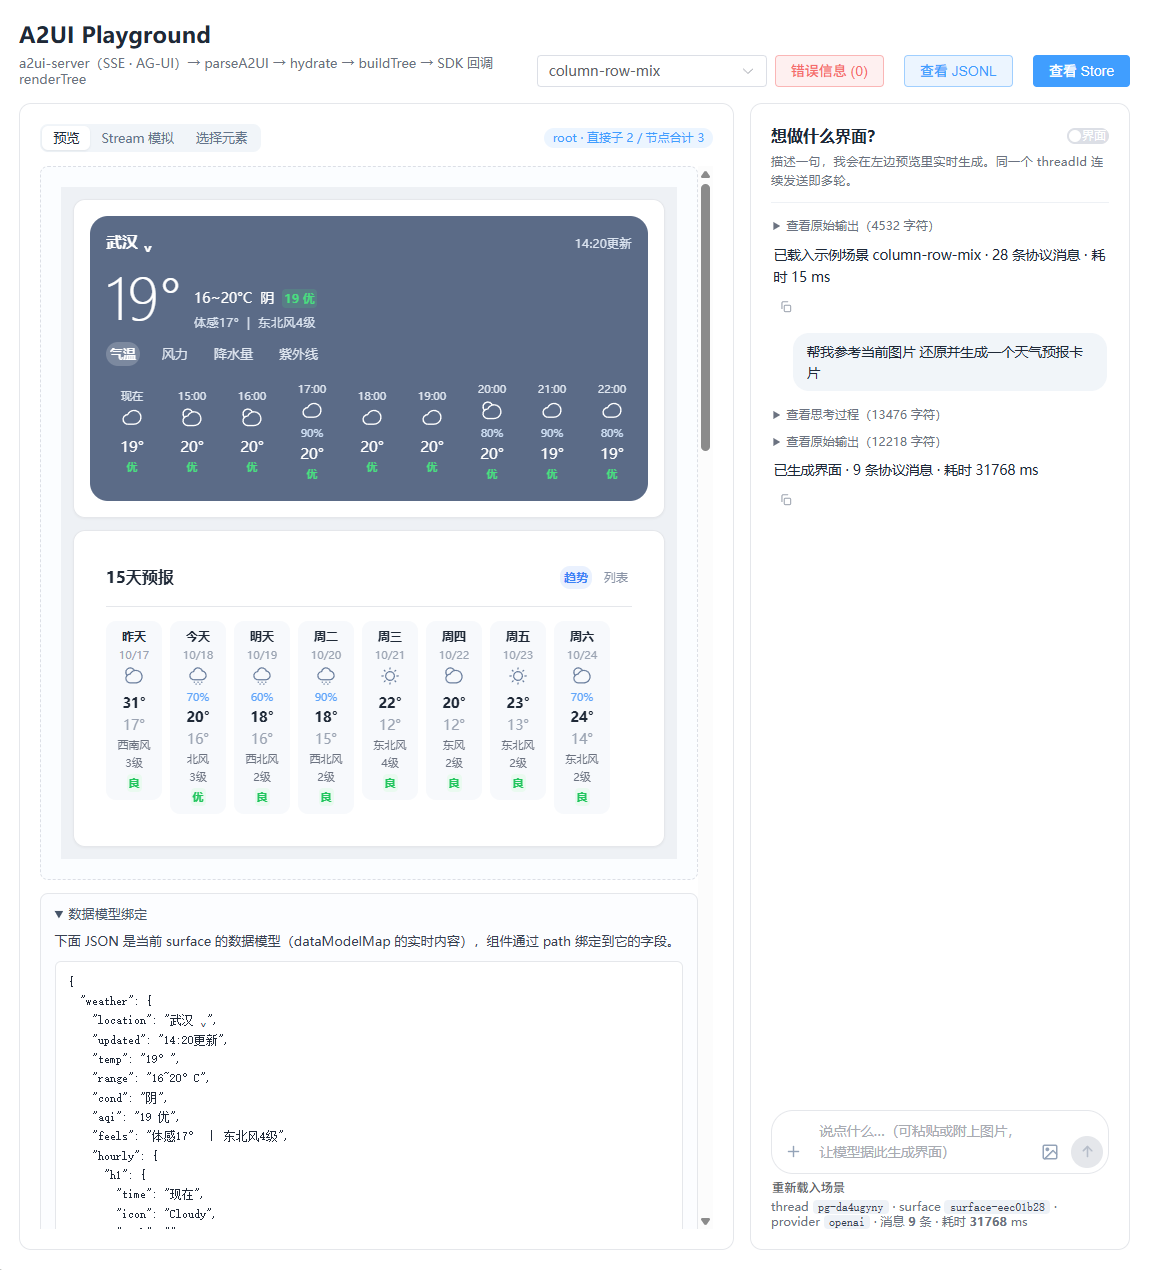
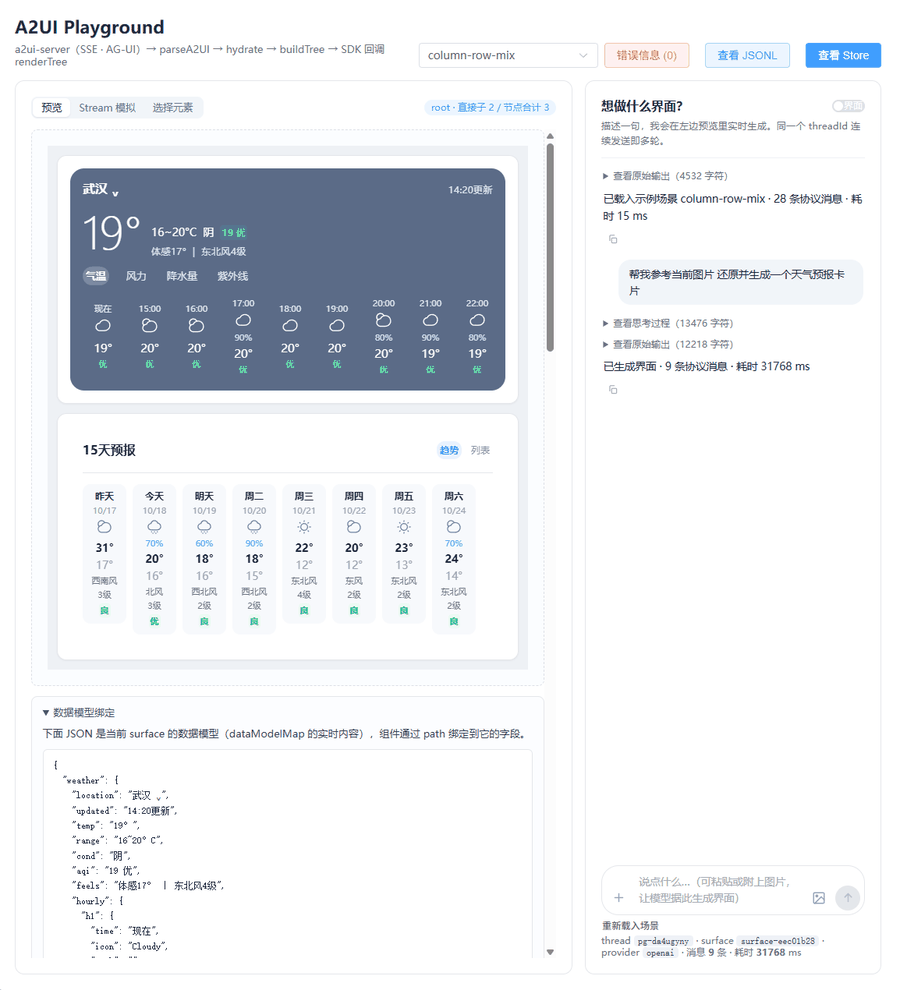
fix(docs): README 效果展示改用纯 Markdown 图片语法
上一版用 <p align=center> + <img width> 控制排版，部分 Markdown 渲染器会屏蔽内嵌 HTML，导致只看到空的段落。改为标准 ![alt](path)：跨渲染器都能显示。同时把图片压到合适尺寸（900 / 420 宽）并做 PNG 量化，1154px 原图在正文里过大且 236KB 偏重，现在 86KB / 40KB 且文字仍清晰。

diff --git a/README.md b/README.md
@@ -12,17 +12,13 @@
 **一句话 + 一张参考图 → A2UI 协议 → 端上流式渲染。** 下图是一次真实生成：给 agent 一张天气卡片的设计稿，
 它把版式复刻成 A2UI 协议（9 条协议消息、31.8 秒，含 1.3 万字符的思考过程）。
 
-<p align="center">
-  <img src="docs/assets/example-weather-source.png" width="340" alt="输入参考图：天气卡片" />
-</p>
+**① 输入：一张参考图（多模态上传）**
 
-<p align="center"><sub>① 输入：一张参考图（多模态上传）</sub></p>
+![输入参考图：天气卡片](docs/assets/example-weather-source.png)
 
-<p align="center">
-  <img src="docs/assets/playground-overview.png" width="860" alt="A2UI Playground 生成结果" />
-</p>
+**② 输出：Playground 三块 —— 左上预览逐块长出、左下数据模型绑定（path 实时解析）、右侧对话（协议消息与耗时）**
 
-<p align="center"><sub>② 输出：Playground 三块 —— 左上预览逐块长出、左下数据模型绑定（path 实时解析）、右侧对话（协议消息与耗时）</sub></p>
+![A2UI Playground 生成结果](docs/assets/playground-overview.png)
 
 ## 项目架构
 
